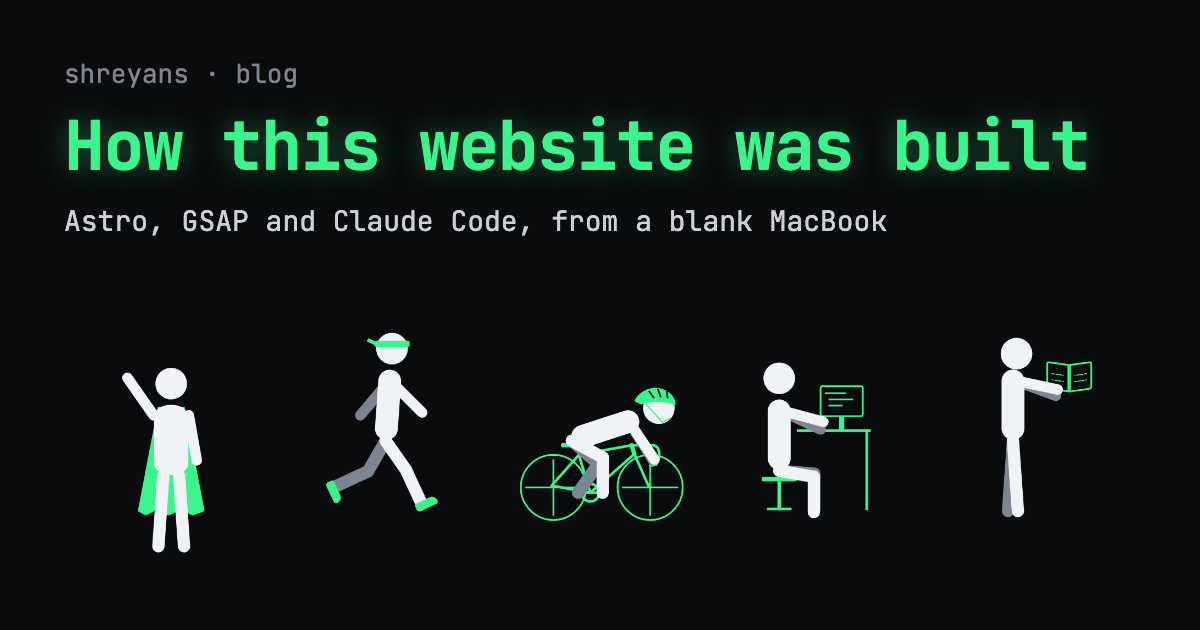
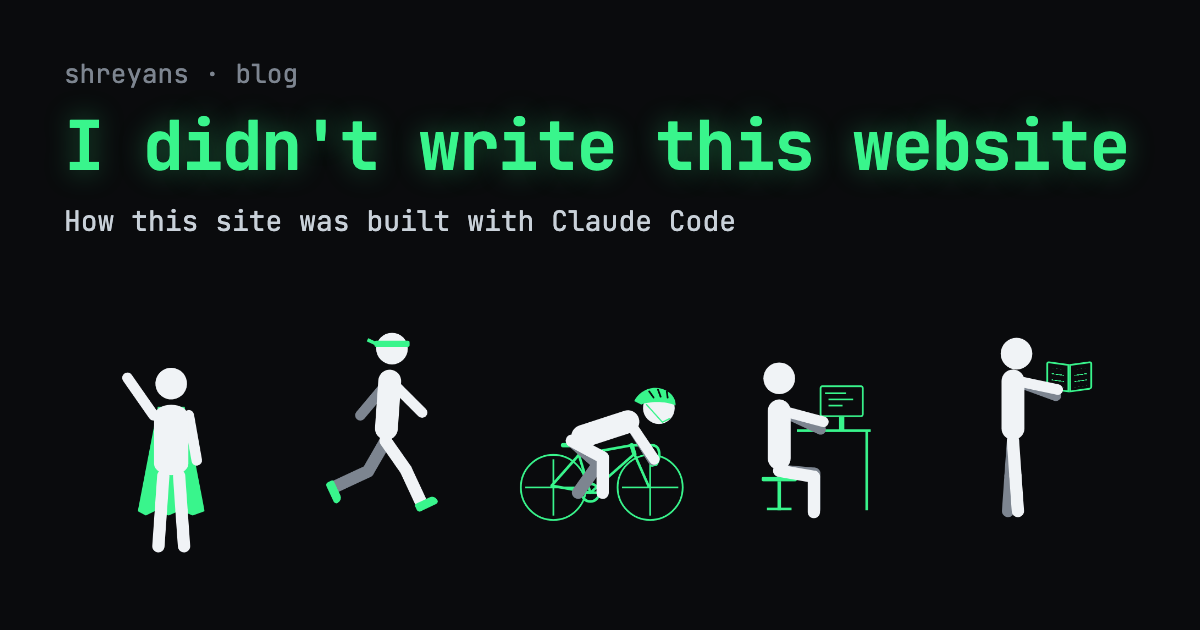
Post: new title and opening, why and what surprised me, running slider figure, sans post text, bigger progress bar with percentage

diff --git a/src/styles/global.css b/src/styles/global.css
@@ -16,6 +16,9 @@
 	--accent: #39f58c;
 	--accent-glow: rgb(57 245 140 / 35%);
 	--box-shadow: 0 0 0 1px var(--border), 0 8px 24px rgb(0 0 0 / 50%);
+	/* Post text: the reader's system font (San Francisco on Apple devices,
+	   Segoe UI on Windows). Nothing to download. */
+	--font-sans: system-ui, -apple-system, 'Segoe UI', Roboto, 'Helvetica Neue', Arial, sans-serif;
 	/* Tells the browser to draw scrollbars and form controls dark too. */
 	color-scheme: dark;
 }
@@ -85,6 +88,12 @@ p {
 .prose p {
 	margin-bottom: 2em;
 }
+/* Long-form text reads faster in a sans font; headings, code and the
+   homepage stay mono. */
+.prose p,
+.prose li {
+	font-family: var(--font-sans);
+}
 /* Markdown wraps list items in <p> when items are spaced out; keep them tight. */
 .prose li > p {
 	margin-bottom: 0.5em;
@@ -105,6 +114,7 @@ img {
 	border-radius: 8px;
 }
 code {
+	font-family: var(--font-mono);
 	padding: 2px 5px;
 	background-color: var(--surface);
 	border: 1px solid var(--border);

diff --git a/docs/plan.md b/docs/plan.md
@@ -67,6 +67,11 @@ What changed from the plan while building, and why. Newest first.
   blocks (added to `BlogPost.astro`). No new dependencies. Images are
   headless-Chrome screenshots, including the 3D figure from the
   `step-5-figure-3d` branch.
+- Post text (paragraphs and lists in posts) uses the system sans font
+  (`--font-sans`) for readability; headings, code, diagrams and the homepage
+  stay JetBrains Mono. Posts can set `ogImage` (1200×630) for link previews;
+  the post layout passes it (or `heroImage`) to the head, with `og:type`
+  article. The reading progress bar is 6px with a percentage tag.
 - Step 7 (2026-10-17): Vercel Web Analytics added as a plain
   `<script defer src="/_vercel/insights/script.js">` in `BaseHead.astro`
   (every page), no npm package. Cookie-free, no consent banner. The owner
